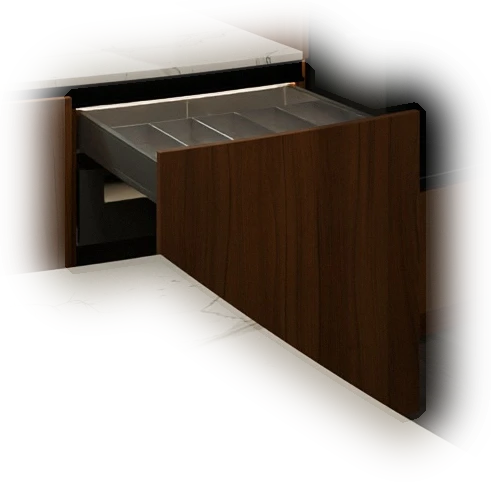
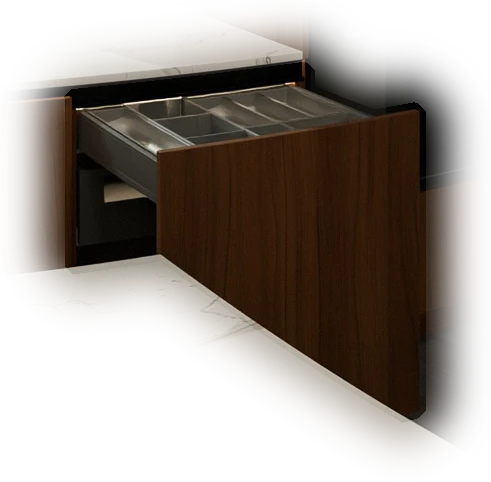
Липки: лоток ORGA-LINE полного заполнения с перемычками (нержавейка + нейлон RAL 7037); автопроверки заплаток и логики просмотрщика
Claude-Session: https://claude.ai/code/session_01FS4v4UUm9NTaHvxuGPQFrL

Changed region(s): [[0.1527, 0.1556, 0.611, 0.3423], [0.5804, 0.1867, 0.7026, 0.2801]]

diff --git a/lipki/index.html b/lipki/index.html
@@ -541,7 +541,7 @@ document.getElementById('fold').onclick = () => { document.body.classList.add('f
 document.getElementById('unfold').onclick = () => { document.body.classList.remove('folded'); store.set('lipki_fold', '0'); };
 const hideBtn = document.getElementById('hideui');
 hideBtn.onclick = () => { const c = document.body.classList.toggle('clean'); hideBtn.setAttribute('aria-pressed', c); hideBtn.setAttribute('aria-label', c ? 'Показать кнопки' : 'Скрыть кнопки'); };
-window.__pano = { pick, setGroup, opened, patches, get cur() { return cur; }, t2uv, dirAt, aim(x, y, z, f) { aimAt({ p: cur.p, look: [x, y, z] }); if (f) fov = f; } };
+window.__pano = { pick, setGroup, opened, patches, shownSet, get META() { return META; }, get cur() { return cur; }, t2uv, dirAt, aim(x, y, z, f) { aimAt({ p: cur.p, look: [x, y, z] }); if (f) fov = f; } };
 const floorsEl = document.getElementById('floors');
 function buildFloors() {
   const F = (META && META.floors) || []; floorsEl.innerHTML = ''; floorsEl.style.display = F.length > 1 ? '' : 'none';

diff --git a/tools/chk_auto.py b/tools/chk_auto.py
@@ -1,0 +1,75 @@
+# Автопроверка заплаток перед выкладкой (Липки и др.), 13.11.2026
+# python3 chk_auto.py SITE_PANO_DIR [точки]  → отчёт в stdout и chk_auto.json
+# Ищет: полупрозрачные пятна внутри заплатки, пустые заплатки и заплатки «без изменений»,
+# отсутствующие файлы, внутренние ящики, не перекрытые заплаткой своего фасада.
+import sys, os, json
+import numpy as np
+from PIL import Image
+from scipy import ndimage as ndi
+
+SRC = sys.argv[1]; PD = os.path.join(SRC, 'parts')
+M = json.load(open(os.path.join(PD, 'parts.json'), encoding='utf-8'))
+PTS = sys.argv[2].split(',') if len(sys.argv) > 2 else sorted(M['parts'])
+G = {g['id']: g for g in M['groups']}
+byname = {g['movs'][0]: g['id'] for g in M['groups'] if not g.get('combo')}
+W, H = M['res']
+issues = []
+def add(kind, pk, gid, msg, val=None):
+    g = G.get(int(gid), {})
+    issues.append({'kind': kind, 'pt': pk, 'gid': int(gid), 'name': '+'.join(g.get('movs', [])), 'msg': msg, 'val': val})
+
+for pk in PTS:
+    P = M['parts'].get(pk, {})
+    base = None
+    bp = os.path.join(SRC, pk + '_closed.jpg')
+    for gid, rec in P.items():
+        f = os.path.join(PD, rec['file'])
+        if not os.path.exists(f): add('нет файла', pk, gid, rec['file']); continue
+        if rec.get('depth') and not os.path.exists(os.path.join(PD, rec['depth'])): add('нет глубины', pk, gid, rec['depth'])
+        im = np.asarray(Image.open(f).convert('RGBA')).astype(np.float32)
+        a = im[..., 3] / 255.0
+        area = (a > 0.05).sum()
+        if area < 200: add('пустая заплатка', pk, gid, 'видимых пикселей %d' % area, int(area)); continue
+        # дыры и полупрозрачное внутри: мягкий край маски ≈ 3·W/420 px, глубже него альфа должна быть 1
+        SS = W / 420.0
+        solid = a > 0.5
+        holes = ndi.binary_fill_holes(solid) & ~solid
+        lab, n = ndi.label(holes)
+        if n:
+            sz = ndi.sum(holes, lab, range(1, n + 1)); big = float(sz.max())
+            if big > max(1500, 0.003 * solid.sum()): add('дыра в заплатке', pk, gid, 'крупнейшая %d px (%.1f%% площади)' % (big, 100 * big / solid.sum()), int(big))
+        inner = ndi.binary_erosion(a > 0.05, iterations=int(3.2 * SS))
+        semi = inner & (a < 0.85)
+        # без изменений: сравнение с закрытой панорамой в пределах заплатки
+        if os.path.exists(bp):
+            if base is None:
+                Image.MAX_IMAGE_PIXELS = None
+                base = Image.open(bp).convert('RGB')
+                if base.size != (W, H): base = base.resize((W, H))
+            x0, y0, x1, y1 = rec['px']
+            cb = np.asarray(base.crop((x0, y0, x0 + im.shape[1], y0 + im.shape[0]))).astype(np.float32)
+            if cb.shape[:2] == im.shape[:2]:
+                m = a > 0.5
+                # полупрозрачное там, где открытый кадр заметно отличается от закрытого — виден «призрак» закрытого кадра
+                dd = np.abs(cb - im[..., :3]).mean(axis=2)
+                ghost = semi & (dd > 25)
+                if ghost.sum() > 1500: add('полупрозрачное пятно', pk, gid, '%d px «призрака» закрытого кадра' % ghost.sum(), int(ghost.sum()))
+                if m.sum() > 0:
+                    d = np.abs(cb[m] - im[..., :3][m]).mean()
+                    if d < 2.0: add('без изменений', pk, gid, 'средняя разница с закрытым кадром %.2f' % d, round(float(d), 2))
+    # внутренний ящик должен лежать внутри прямоугольника заплатки фасада (иначе часть ящика показывается без своего фасада)
+    for gid, rec in P.items():
+        g = G[int(gid)]
+        for nm in g.get('req', []):
+            pid = byname.get(nm)
+            if pid is None or str(pid) not in P: continue
+            if G[int(gid)].get('inv'): continue
+            c = rec['px']; p = P[str(pid)]['px']
+            if c[0] < p[0] - 2 or c[1] < p[1] - 2 or c[2] > p[2] + 2 or c[3] > p[3] + 2:
+                pass   # ящик может выезжать дальше фасада — это не ошибка, но проверяем покрытие ниже
+    print('точка', pk, 'заплаток', len(P), flush=True)
+
+json.dump(issues, open('/home/claude/chk_auto.json', 'w', encoding='utf-8'), ensure_ascii=False, indent=1)
+from collections import Counter
+print('ИТОГО', len(issues), dict(Counter(i['kind'] for i in issues)))
+for i in issues: print(i['kind'], i['pt'], i['gid'], i['name'], i['msg'])

diff --git a/tools/chk_logic.py b/tools/chk_logic.py
@@ -1,0 +1,66 @@
+# Автопроверка логики просмотрщика: случайные цепочки открытий/закрытий в каждой точке, 13.11.2026
+# python3 chk_logic.py [шагов_на_точку] [точки]   (сервер: python3 -m http.server 8765 в папке сайта)
+import asyncio, json, random, sys
+from playwright.async_api import async_playwright
+N = int(sys.argv[1]) if len(sys.argv) > 1 else 30
+ONLY = sys.argv[2].split(',') if len(sys.argv) > 2 else None
+CHECK = """() => { const P = window.__pano, pk = P.cur.id, M = P.META, want = P.shownSet(pk), out = [];
+  const byName = {}; M.groups.forEach(g => { if (!g.combo) byName[g.movs[0]] = g.id; });
+  for (const id of P.opened) { const g = M.groups.find(x => x.id === id);
+    if (g && !g.combo) (g.req || []).forEach(r => { if (!P.opened.has(byName[r])) out.push(['открыт без фасада', id]); }); }
+  const vis = [];
+  for (const [k, r] of Object.entries(P.patches)) { if (!r.mesh || !k.startsWith(pk + '_')) continue;
+    const gid = +k.split('_')[1], op = r.mesh.material.opacity !== undefined ? r.mesh.material.opacity : (r.mesh.material.uniforms && r.mesh.material.uniforms.op ? r.mesh.material.uniforms.op.value : 1);
+    if (r.mesh.visible && op > 0.02) { vis.push(gid); if (!want.has(gid)) out.push(['призрак (видна лишняя заплатка)', gid]); }
+  }
+  for (const gid of want) { if (!(M.parts[pk] || {})[gid]) continue; if (!vis.includes(gid)) out.push(['не показана открытая', gid]); }
+  for (const a of vis) { const g = M.groups.find(x => x.id === a); if (g && g.combo) g.combo.forEach(m => { if (vis.includes(m)) out.push(['двойной показ (комбо и створка)', m]); }); }
+  return { pk, vis, opened: [...P.opened], out }; }"""
+async def main():
+    random.seed(13)
+    res = []
+    async with async_playwright() as p:
+        b = await p.chromium.launch(executable_path='/usr/bin/google-chrome', args=['--use-gl=swiftshader', '--enable-webgl', '--ignore-gpu-blocklist'])
+        pg = await b.new_page(viewport={'width': 900, 'height': 700})
+        errs = []; pg.on('pageerror', lambda e: errs.append(str(e)))
+        await pg.goto('http://localhost:8765/index.html')
+        for i in range(120):
+            if 'off' in await pg.evaluate("document.getElementById('boot').className"): break
+            await pg.wait_for_timeout(500)
+        M = await pg.evaluate("window.__pano.META")
+        names = M['names']; G = {g['id']: g for g in M['groups']}
+        for pk in (ONLY or sorted(M['parts'])):
+            P = M['parts'][pk]
+            if not P: continue
+            nch = await pg.evaluate("document.querySelectorAll('#pts .chip').length")
+            for ci in range(nch):
+                await pg.evaluate("i => document.querySelectorAll('#pts .chip')[i].click()", ci)
+                await pg.wait_for_timeout(300)
+                if await pg.evaluate("window.__pano.cur.id") == pk: break
+            for i in range(120):
+                if await pg.evaluate("window.__pano.cur.id") == pk: break
+                await pg.wait_for_timeout(500)
+            await pg.wait_for_timeout(3000)
+            singles = [int(k) for k in P if not G[int(k)].get('combo')]
+            for step in range(N):
+                op = await pg.evaluate("[...window.__pano.opened]")
+                gid = random.choice(singles)
+                openit = (gid not in op) if random.random() < 0.75 else False
+                if not openit and op and random.random() < 0.5: gid = random.choice(op)
+                await pg.evaluate("([g,o]) => window.__pano.setGroup(g, o, true)", [gid, openit])
+                await pg.wait_for_timeout(2600)
+                r = await pg.evaluate(CHECK)
+                if step < 3: print("  ", step, gid, openit, "видно", r["vis"], "открыто", r["opened"], flush=True)
+                for kind, g in r['out']:
+                    res.append({'pt': pk, 'step': step, 'act': ('открыть ' if openit else 'закрыть ') + '+'.join(G[gid]['movs']),
+                                'kind': kind, 'gid': g, 'name': '+'.join(G.get(g, {}).get('movs', [])), 'opened': r['opened']})
+                if r['out']: await pg.screenshot(path='/tmp/logic_%s_%d.png' % (pk, step))
+            await pg.evaluate("() => { for (const g of [...window.__pano.opened]) window.__pano.setGroup(g, false, true); }")
+            await pg.wait_for_timeout(1500)
+            print('точка', pk, 'проблем', sum(1 for x in res if x['pt'] == pk), flush=True)
+        await b.close()
+    json.dump({'issues': res, 'errors': errs}, open('/home/claude/chk_logic.json', 'w', encoding='utf-8'), ensure_ascii=False, indent=1)
+    print('ИТОГО', len(res), 'ошибок JS', len(errs))
+    for x in res[:40]: print(x['pt'], x['step'], x['act'], '→', x['kind'], x['gid'], x['name'])
+    for e in errs[:5]: print('JS', e)
+asyncio.run(main())
